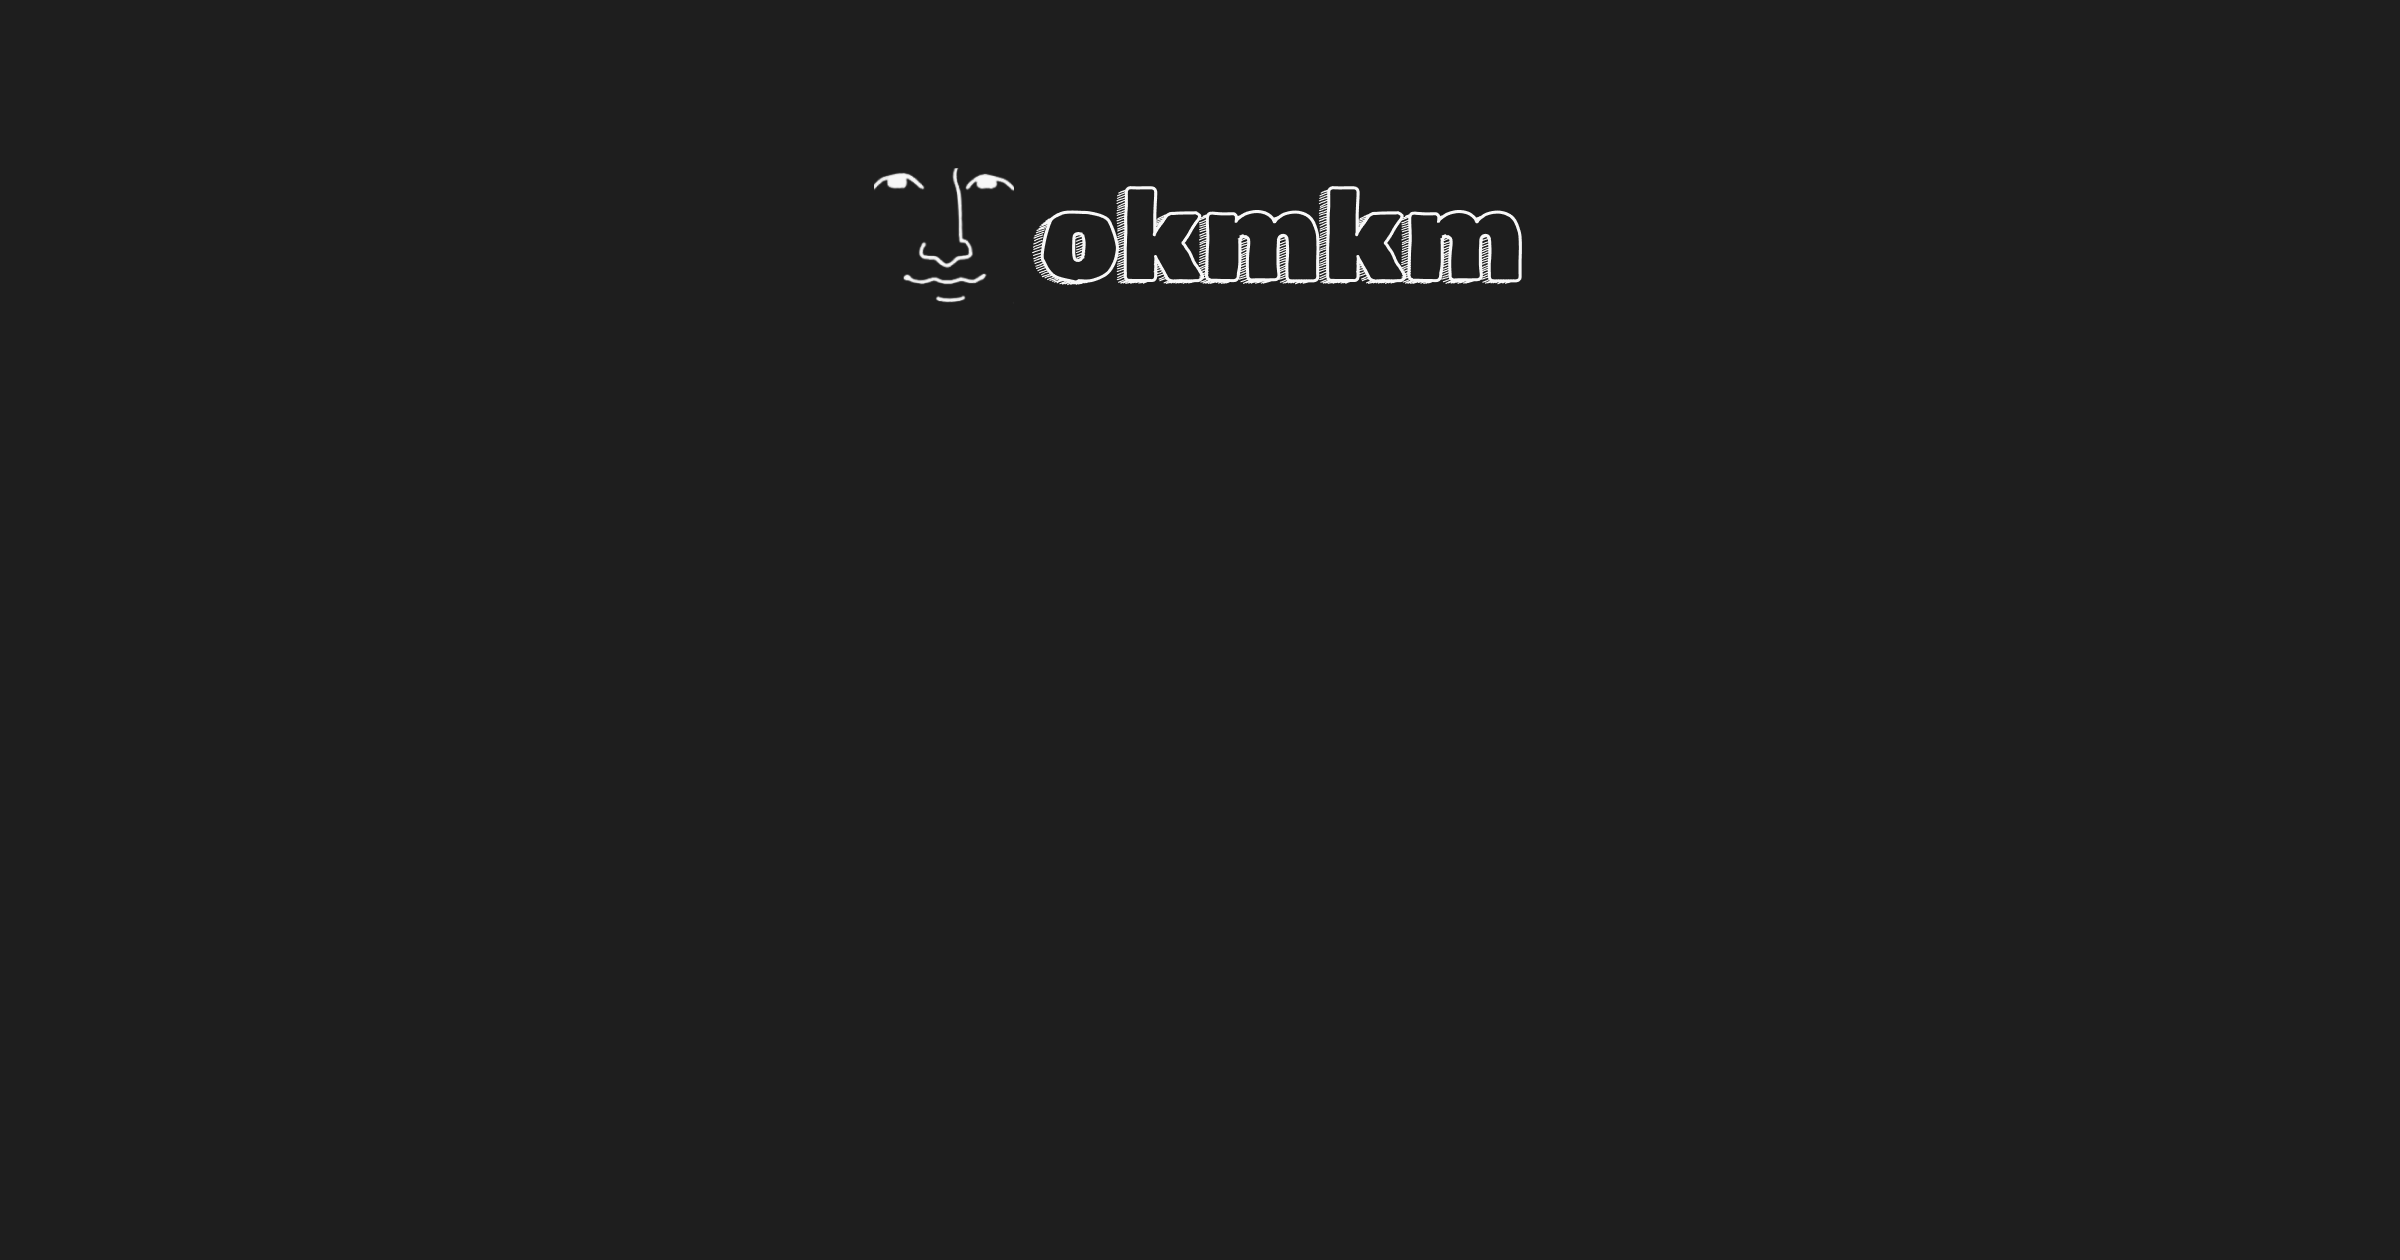
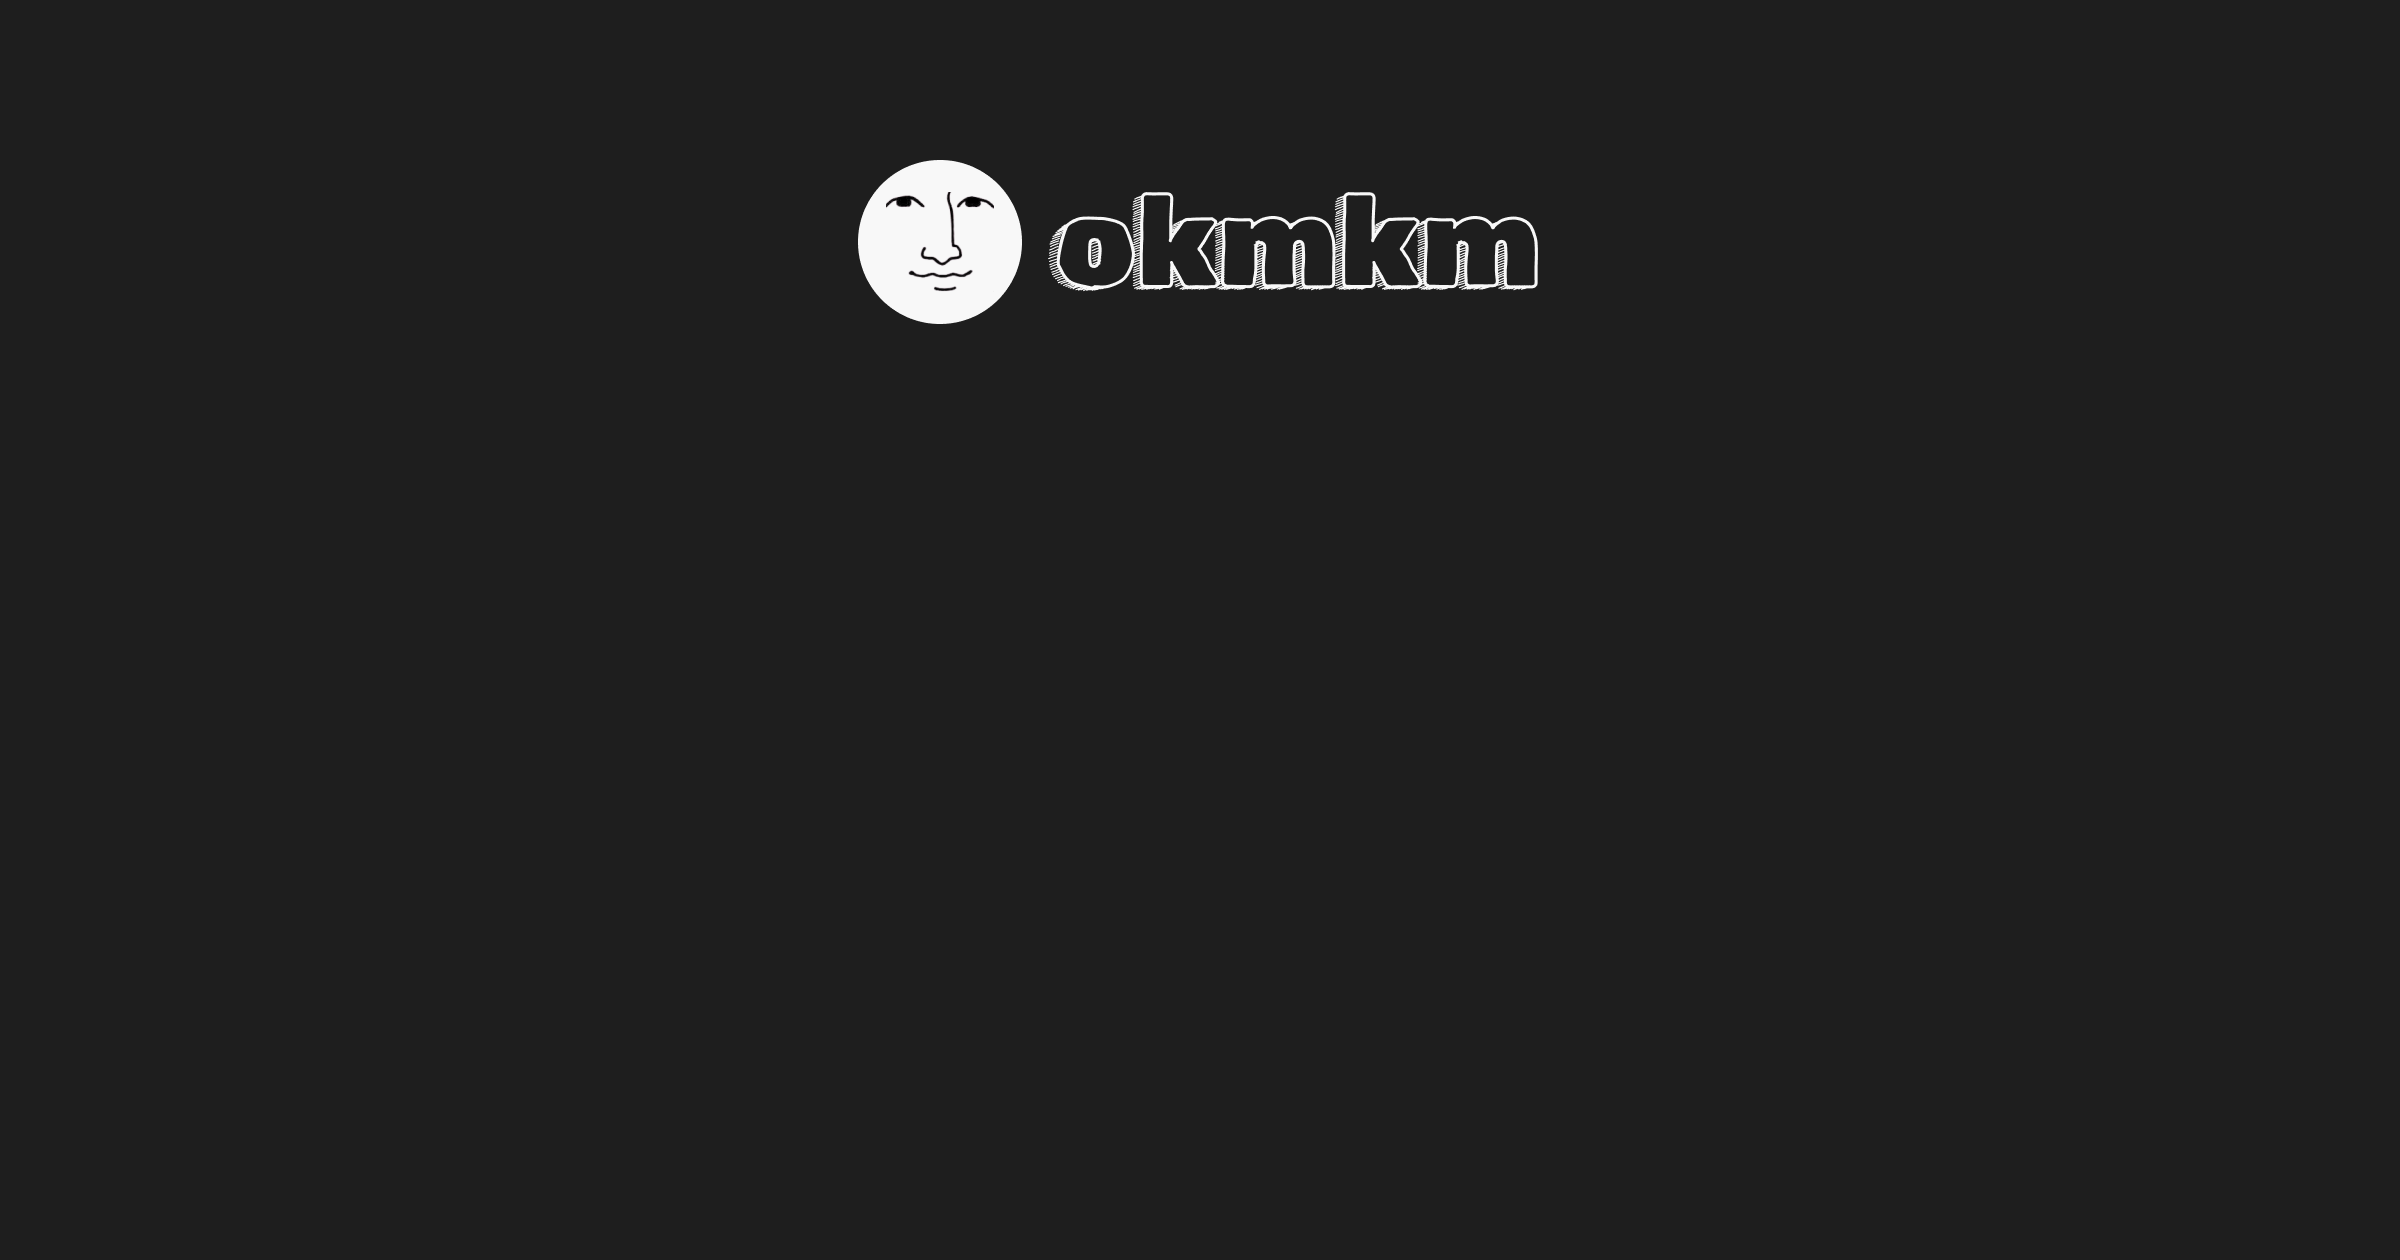
add: Zennページ作成

Changed region(s): [[0.3438, 0.1238, 0.6562, 0.2786]]

diff --git a/app/src/features/zenn/components/ZennCard/ZennCard.tsx b/app/src/features/zenn/components/ZennCard/ZennCard.tsx
@@ -1,0 +1,52 @@
+import { Heading } from "@/components/shared/Heading";
+import Image from "next/image";
+import type { FC } from "react";
+import classes from "./ZennCard.module.scss";
+import { formatDate } from "@packages/utils";
+
+type Props = {
+	/** 記事タイトル */
+	title: string;
+	/** 記事の公開日 */
+	publishedAt: string;
+	/** 記事のリンク */
+	link: string;
+	/** サムネイル */
+	thumbnail: string;
+};
+
+export const ZennCard: FC<Props> = ({
+	title,
+	publishedAt,
+	link,
+	thumbnail,
+}) => {
+	const publishedDate = formatDate(publishedAt, "yyyy/MM/dd");
+	return (
+		<article className={classes.zennCard}>
+			<Heading level={2} className="var(--font_rubik_doodle_shadow)">
+				<a
+					href={link}
+					target="_blank"
+					rel="noopener noreferrer"
+					className={classes.link}
+				>
+					<Image
+						width={1200}
+						height={630}
+						src={thumbnail}
+						alt=""
+						style={{
+							maxWidth: "100%",
+							height: "auto",
+						}}
+					/>
+				</a>
+				<span className="visually-hidden">{title}</span>
+			</Heading>
+			<div className={classes.metadata}>
+				<time dateTime={publishedDate}>{publishedDate}</time>
+			</div>
+		</article>
+	);
+};

diff --git a/app/src/features/zenn/api/getZennArticles.ts b/app/src/features/zenn/api/getZennArticles.ts
@@ -1,0 +1,41 @@
+import RssParser from "rss-parser";
+
+type ZennArticle = {
+	/** 作成者 */
+	creator: string;
+	/** タイトル */
+	title: string;
+	/** リンク */
+	link: string;
+	/** 公開日 */
+	pubDate: string;
+	/** サムネイル */
+	thumbnail: string;
+	/** 本文 */
+	content: string;
+	/** 本文（スニペット） */
+	contentSnippet: string;
+	/** guid */
+	guid: string;
+	isoDate: string;
+};
+
+export const getZennArticles = async (): Promise<ZennArticle[]> => {
+	const parser = new RssParser();
+	const feedUrl = "https://zenn.dev/okmkm321/feed";
+
+	const xmlText = await fetch(feedUrl).then((res) => res.text());
+	const feed = await parser.parseString(xmlText);
+
+	return feed.items.map((item) => ({
+		creator: item.creator || "",
+		title: item.title || "",
+		link: item.link || "",
+		pubDate: item.pubDate || "",
+		thumbnail: item.enclosure?.url ?? "",
+		content: item.content || "",
+		contentSnippet: item.contentSnippet || "",
+		guid: item.guid || "",
+		isoDate: item.isoDate || "",
+	}));
+};

diff --git a/app/src/features/zenn/components/ZennCard/ZennCard.module.scss b/app/src/features/zenn/components/ZennCard/ZennCard.module.scss
@@ -1,0 +1,49 @@
+@use 'shared-styles/global' as g;
+
+.zennCard {
+  display: flex;
+  flex-direction: column;
+  border-radius: 0.5rem;
+  border: 2px solid var(--color_article-border);
+  overflow: hidden;
+  position: relative;
+  transition: all 0.5s;
+
+  &:has(.link:focus-visible) {
+    outline-offset: 0.5rem;
+    outline: 2px solid var(--color_outline);
+  }
+
+  @media (hover: hover) {
+    &:hover {
+      border: 2px solid var(--color_article-border-hover);
+      box-shadow: var(--shadow_global-nav);
+    }
+  }
+
+  &:not(:hover) {
+    transition: none;
+  }
+}
+
+.link {
+  &:before {
+    content: '';
+    position: absolute;
+    top: 0;
+    left: 0;
+    width: 100%;
+    height: 100%;
+  }
+
+  &:focus-visible {
+    outline: none;
+  }
+}
+
+.metadata {
+  border-top: 1px solid var(--color_article-border);
+  padding: 1rem;
+  text-align: center;
+  font-size: var(--font-size_s);
+}

diff --git a/app/src/features/article/views/ArticleIndex/ArticleIndex.tsx b/app/src/features/article/views/ArticleIndex/ArticleIndex.tsx
@@ -1,16 +1,11 @@
-import { Heading } from "@/components/shared/Heading";
 import type { FC } from "react";
 import { ArticleList } from "../../components/ArticleList";
-import classes from "./ArticleIndex.module.scss";
+import { SectionTitle } from "@/components/shared/SectionTitle/SectionTitle";
 
 export const ArticleIndex: FC = () => {
 	return (
-		<section className={classes.articleIndex}>
-			<header className={classes.articleHeader}>
-				<Heading level={2} className={classes.articleHeader__title}>
-					Article
-				</Heading>
-			</header>
+		<section>
+			<SectionTitle>Article</SectionTitle>
 			<ArticleList />
 		</section>
 	);

diff --git a/app/src/features/zenn/components/ZennList/ZennList.tsx b/app/src/features/zenn/components/ZennList/ZennList.tsx
@@ -1,0 +1,21 @@
+import type { FC } from "react";
+import { getZennArticles } from "../../api/getZennArticles";
+import { ZennCard } from "../ZennCard";
+import classes from "./ZennList.module.scss";
+
+export const ZennList: FC = async () => {
+	const zennArticles = await getZennArticles();
+	return (
+		<div className={classes.zennList}>
+			{zennArticles.map((article) => (
+				<ZennCard
+					key={article.guid}
+					title={article.title}
+					link={article.link}
+					publishedAt={article.pubDate}
+					thumbnail={article.thumbnail}
+				/>
+			))}
+		</div>
+	);
+};

diff --git a/app/src/components/shared/Logo/Logo.module.scss b/app/src/components/shared/Logo/Logo.module.scss
@@ -1,13 +1,14 @@
 @use 'shared-styles/global' as g;
 
 .logo {
-  background-image: var(--image_logo);
+  // background-image: var(--image_logo);
+  background-image: url('/rounded_face.svg');
   background-repeat: no-repeat;
   font-size: var(--font-size_xxxl);
-  background-size: 2.5rem;
+  background-size: 3.5rem;
   background-position: left center;
   height: 3.75rem;
-  padding-left: 3.2rem;
+  padding-left: 4rem;
   display: flex;
   align-items: center;
   font-family: var(--font_rubik_doodle_shadow);

diff --git a/app/src/components/shared/SectionTitle/SectionTitle.tsx b/app/src/components/shared/SectionTitle/SectionTitle.tsx
@@ -1,0 +1,15 @@
+import type { FC, PropsWithChildren } from "react";
+import { Heading } from "../Heading";
+import classes from "./SectionTitle.module.scss";
+
+type Props = PropsWithChildren;
+
+export const SectionTitle: FC<Props> = ({ children }) => {
+	return (
+		<header className={classes.sectionTitle}>
+			<Heading level={1} className={classes.sectionTitle__title}>
+				{children}
+			</Heading>
+		</header>
+	);
+};

diff --git a/app/next.config.ts b/app/next.config.ts
@@ -2,6 +2,15 @@ import type { NextConfig } from "next";
 
 const nextConfig: NextConfig = {
 	/* config options here */
+	images: {
+		remotePatterns: [
+			{
+				protocol: "https",
+				hostname: "res.cloudinary.com",
+				pathname: "/zenn/image/upload/**",
+			},
+		],
+	},
 	sassOptions: {
 		implementation: "sass-embedded", // sassの代わりにsass-embeddedを使用
 	},

diff --git a/app/src/components/shared/GlobalNavigation/GlobalNavigation.tsx b/app/src/components/shared/GlobalNavigation/GlobalNavigation.tsx
@@ -19,11 +19,11 @@ const NavigationList: Navigation[] = [
 		path: "/zenn",
 		icon: <ZennIcon fontSize="1.7rem" />,
 	},
-	{
-		title: "Github",
-		path: "/#",
-		icon: <GithubIcon fontSize="1.7rem" />,
-	},
+	// {
+	// 	title: "Github",
+	// 	path: "/#",
+	// 	icon: <GithubIcon fontSize="1.7rem" />,
+	// },
 ];
 
 export const GlobalNavigation = () => {

diff --git a/app/src/features/zenn/views/ZennIndex/ZennIndex.tsx b/app/src/features/zenn/views/ZennIndex/ZennIndex.tsx
@@ -1,0 +1,12 @@
+import type { FC } from "react";
+import { SectionTitle } from "@/components/shared/SectionTitle/SectionTitle";
+import { ZennList } from "../../components/ZennList";
+
+export const ZennIndex: FC = async () => {
+	return (
+		<section>
+			<SectionTitle>Zenn</SectionTitle>
+			<ZennList />
+		</section>
+	);
+};

diff --git a/app/src/app/zenn/page.tsx b/app/src/app/zenn/page.tsx
@@ -1,7 +1,8 @@
+import { ZennIndex } from "@/features/zenn/views/ZennIndex";
 import type { FC } from "react";
 
 const ZennArticlsePage: FC = () => {
-	return <div>hello, world</div>;
+	return <ZennIndex />;
 };
 
 export default ZennArticlsePage;

diff --git a/app/src/app/layout.tsx b/app/src/app/layout.tsx
@@ -52,7 +52,7 @@ export default function RootLayout({
 					<Layout>
 						<Header />
 						<Main>{children}</Main>
-						<footer>footer</footer>
+						{/* <footer>footer</footer> */}
 					</Layout>
 				</ColorThemeProvider>
 			</body>
